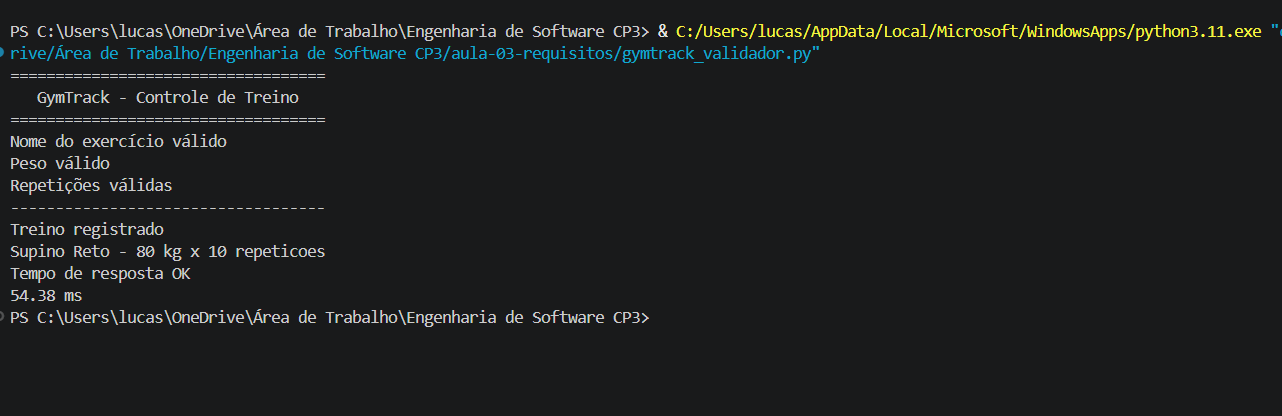
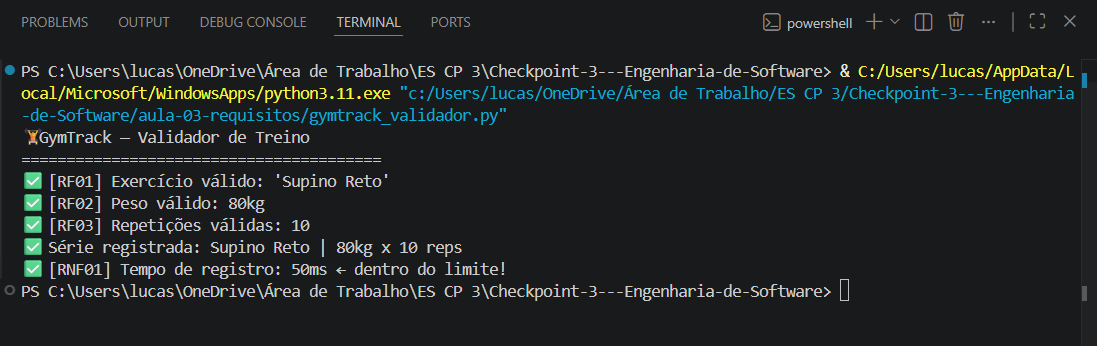
fix: arrumando estrutura de codigo para o esperado pelo professor, e atualizando output.png

Changed region(s): [[0.0, 0.1734, 0.9918, 0.8671], [0.0, 0.0289, 1.0, 0.1445], [0.9608, 0.8382, 0.9918, 0.8671]]

diff --git a/aula-03-requisitos/gymtrack_validador.py b/aula-03-requisitos/gymtrack_validador.py
@@ -1,49 +1,47 @@
 import time
 
-print("===================================")
-print("   GymTrack - Controle de Treino")
-print("===================================")
+print("🏋 GymTrack — Validador de Treino")
+print("=" * 40)
 
-# Dados do treino
-exercicio = "Supino Reto"
-peso = 80
+# --- DADOS DO TREINO (mude os valores para testar!) ---
+exercicio  = "Supino Reto"
+peso_kg    = 80
 repeticoes = 10
 
-# Validar nome do exercício
+# -------------------------------------------------------
+# RF01 — O sistema deve validar o nome do exercício
+# (não pode ser vazio)
+# -------------------------------------------------------
 if exercicio != "":
-    print("Nome do exercício válido")
+    print(f"✅ [RF01] Exercício válido: '{exercicio}'")
 else:
-    print("Erro: exercício vazio")
+    print("❌ [RF01] Nome do exercício não pode ser vazio!")
 
-# Validar peso
-if peso >= 1 and peso <= 300:
-    print("Peso válido")
+# -------------------------------------------------------
+# RF02 — O peso deve estar entre 1 e 300 kg
+# -------------------------------------------------------
+if 1 <= peso_kg <= 300:
+    print(f"✅ [RF02] Peso válido: {peso_kg}kg")
 else:
-    print("Peso inválido")
+    print(f"❌ [RF02] Peso inválido: {peso_kg}kg ← deve estar entre 1 e 300kg")
 
-# Validar repetições
-if repeticoes >= 1 and repeticoes <= 50:
-    print("Repetições válidas")
+# -------------------------------------------------------
+# RF03 — As repetições devem estar entre 1 e 50
+# -------------------------------------------------------
+if 1 <= repeticoes <= 50:
+    print(f"✅ [RF03] Repetições válidas: {repeticoes}")
 else:
-    print("Quantidade de repetições inválida")
+    print(f"❌ [RF03] Repetições inválidas: {repeticoes} ← deve estar entre 1 e 50")
 
-print("-----------------------------------")
-
-# Verificar registro
+# -------------------------------------------------------
+# RNF01 — O registro deve ocorrer em menos de 200ms
+# -------------------------------------------------------
 inicio = time.time()
-
-# Simulação de cadastro
 time.sleep(0.05)
-
-print("Treino registrado")
-print(exercicio, "-", peso, "kg x", repeticoes, "repeticoes")
-
+print(f"✅ Série registrada: {exercicio} | {peso_kg}kg x {repeticoes} reps")
 fim = time.time()
-
-tempo = (fim - inicio) * 1000
-
-if tempo < 200:
-    print("Tempo de resposta OK")
-    print(f"{tempo:.2f} ms")
+tempo_ms = (fim - inicio) * 1000
+if tempo_ms < 200:
+    print(f"✅ [RNF01] Tempo de registro: {tempo_ms:.0f}ms ← dentro do limite!")
 else:
-    print("Sistema demorou muito")
+    print(f"❌ [RNF01] Lento demais: {tempo_ms:.0f}ms ← limite é 200ms")
